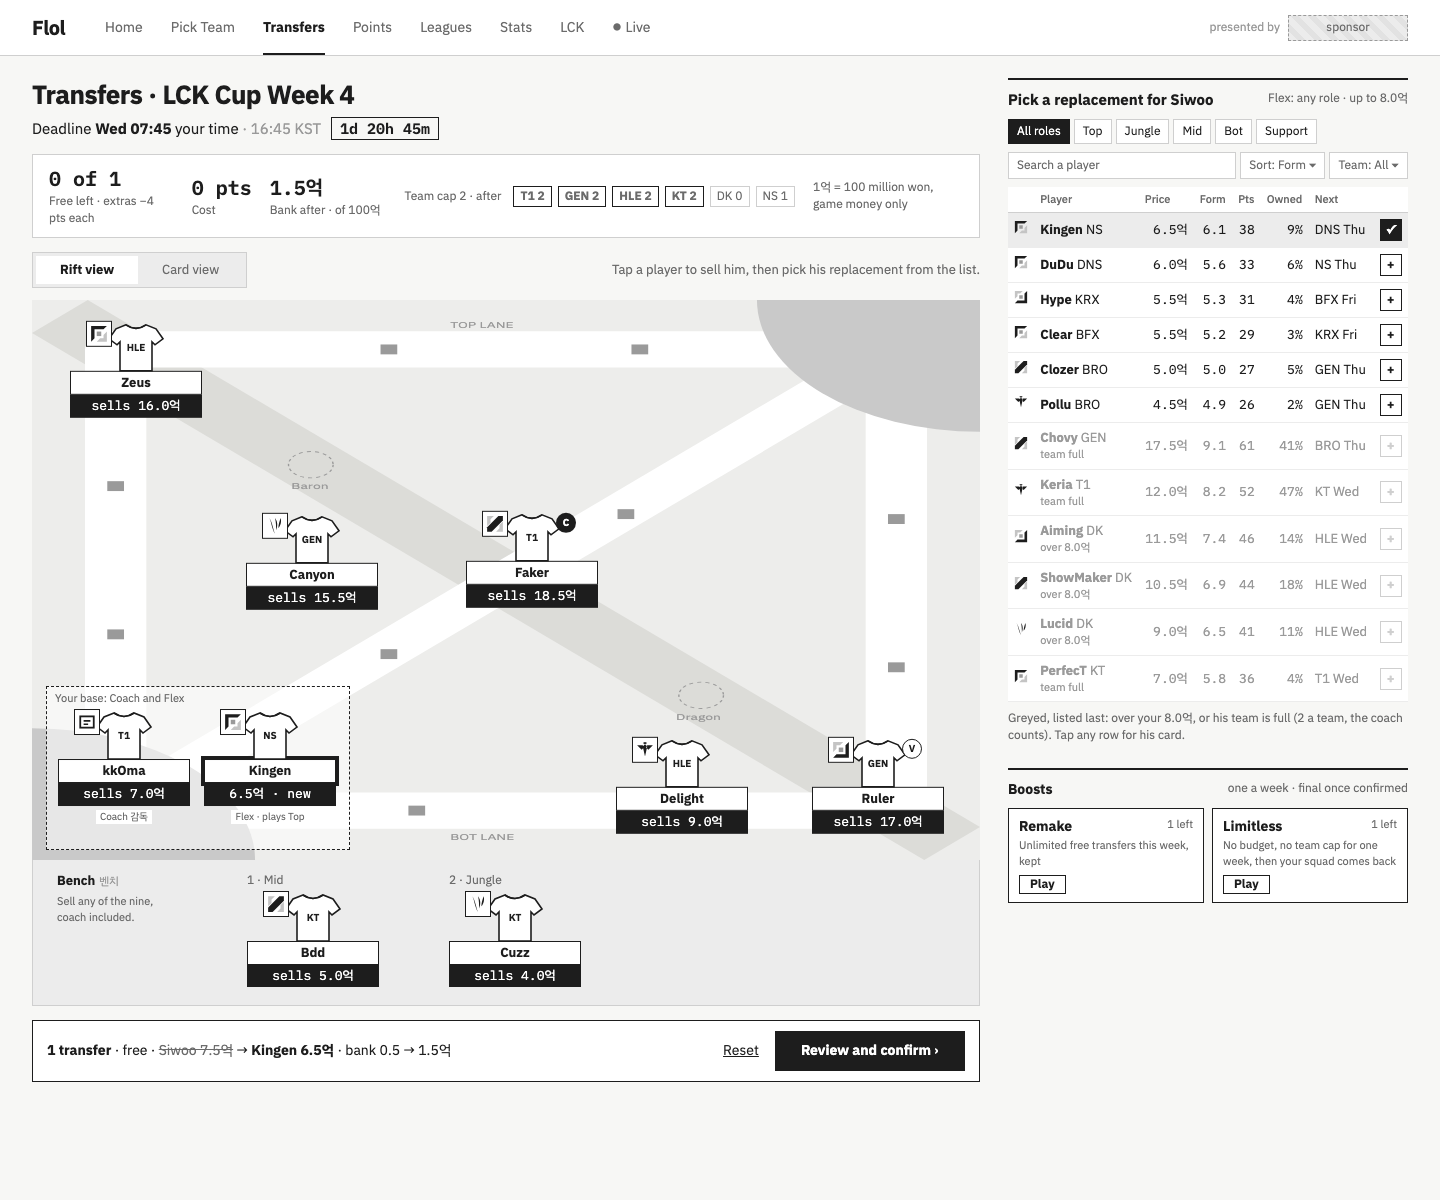
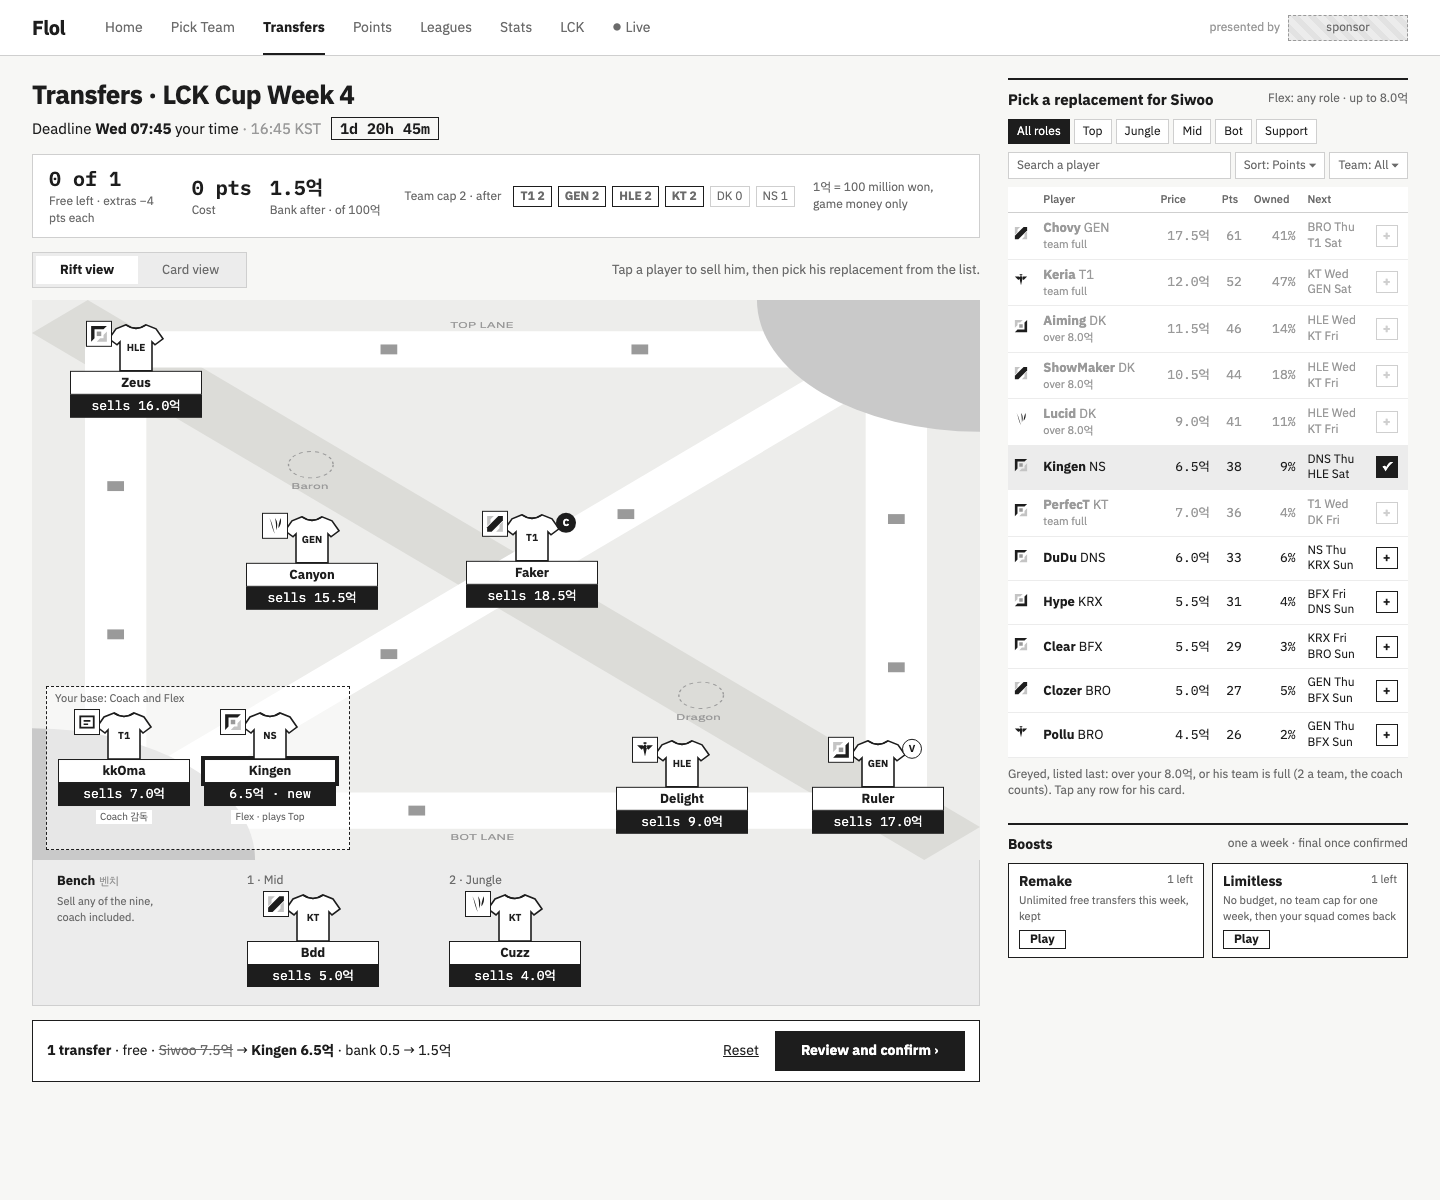
docs: Transfers list drops Form; Next shows both series of the week

Changed region(s): [[0.6875, 0.1233, 0.9688, 0.8017]]

diff --git a/docs/design/approved/transfers/transfers.html b/docs/design/approved/transfers/transfers.html
@@ -64,6 +64,7 @@ aside h2 span { font-weight: 400; color: var(--mid); font-size: 12px; }
 
 .rift { position: relative; width: 948px; height: 700px; }
 .rift svg.map { position: absolute; inset: 0; width: 948px; height: 700px; }
+.plist td.nx { font-size: 12px; line-height: 1.3; white-space: nowrap; }
 .tile { position: absolute; width: 132px; transform: translate(-50%, -50%); text-align: center; }
 .benchb .tile { position: relative; transform: none; }
 .tile .kit { position: relative; width: 56px; height: 50px; margin: 0 auto -2px; }
@@ -170,8 +171,8 @@ aside h2 span { font-weight: 400; color: var(--mid); font-size: 12px; }
 <aside>
 <section class="pl2"><h2>Pick a replacement for Siwoo <span>Flex: any role · up to 8.0억</span></h2>
 <div class="flt"><span class="on">All roles</span><span>Top</span><span>Jungle</span><span>Mid</span><span>Bot</span><span>Support</span></div>
-<div class="flt2"><span class="srch">Search a player</span><span>Sort: Form ▾</span><span>Team: All ▾</span></div>
-<table class="plist"><thead><tr><th></th><th>Player</th><th>Price</th><th>Form</th><th>Pts</th><th>Owned</th><th>Next</th><th></th></tr></thead><tbody id="pl"></tbody></table>
+<div class="flt2"><span class="srch">Search a player</span><span>Sort: Points ▾</span><span>Team: All ▾</span></div>
+<table class="plist"><thead><tr><th></th><th>Player</th><th>Price</th><th>Pts</th><th>Owned</th><th>Next</th><th></th></tr></thead><tbody id="pl"></tbody></table>
 <div class="note2">Greyed, listed last: over your 8.0억, or his team is full (2 a team, the coach counts). Tap any row for his card.</div></section>
 <section style="margin-top:22px"><h2>Boosts <span>one a week · final once confirmed</span></h2><div class="chips">
 <div class="chip"><span class="lft">1 left</span><b>Remake</b><small>Unlimited free transfers this week, kept</small><span class="go">Play</span></div>
@@ -189,15 +190,15 @@ const W4 = [
 ];
 const nextOf = (team) => W4.filter((s) => s[3] === team || s[4] === team).map((s) => `v ${s[3] === team ? s[4] : s[3]} ${s[0]}`);
 const PSQ = [
-  { slot: "top", name: "Zeus", team: "HLE", price: "16.0", form: "7.0" },
-  { slot: "jng", name: "Canyon", team: "GEN", price: "15.5", form: "7.3" },
-  { slot: "mid", name: "Faker", team: "T1", price: "18.5", form: "8.8", mark: "C" },
-  { slot: "bot", name: "Ruler", team: "GEN", price: "17.0", form: "8.0", mark: "V" },
-  { slot: "sup", name: "Delight", team: "HLE", price: "9.0", form: "5.0" },
-  { slot: "flex", role: "top", name: "Siwoo", team: "DK", price: "7.5", form: "4.5", news: "Benched for Wednesday's series" },
-  { slot: "coach", name: "kkOma", team: "T1", price: "7.0", form: "6.0" },
-  { slot: "b1", role: "mid", name: "Bdd", team: "KT", price: "5.0", form: "3.3" },
-  { slot: "b2", role: "jng", name: "Cuzz", team: "KT", price: "4.0", form: "4.8" },
+  { slot: "top", name: "Zeus", team: "HLE", price: "16.0" },
+  { slot: "jng", name: "Canyon", team: "GEN", price: "15.5" },
+  { slot: "mid", name: "Faker", team: "T1", price: "18.5", mark: "C" },
+  { slot: "bot", name: "Ruler", team: "GEN", price: "17.0", mark: "V" },
+  { slot: "sup", name: "Delight", team: "HLE", price: "9.0" },
+  { slot: "flex", role: "top", name: "Siwoo", team: "DK", price: "7.5", news: "Benched for Wednesday's series" },
+  { slot: "coach", name: "kkOma", team: "T1", price: "7.0" },
+  { slot: "b1", role: "mid", name: "Bdd", team: "KT", price: "5.0" },
+  { slot: "b2", role: "jng", name: "Cuzz", team: "KT", price: "4.0" },
 ];
 const ICON = { top: "i-top", jng: "i-jng", mid: "i-mid", bot: "i-bot", sup: "i-sup", coach: "i-coach", flex: "i-flex" };
 const SLOTNAME = { top: "Top", jng: "Jungle", mid: "Mid", bot: "Bot", sup: "Support", flex: "Flex", coach: "Coach", b1: "Bench 1", b2: "Bench 2" };
@@ -216,13 +217,13 @@ function tile(p) {
 PSQ.map((p) => p.name === "Siwoo" ? Object.assign({}, p, IN, { news: null, price: "6.5" }) : p).filter((p) => POS[p.slot]).forEach((p) => { const w = document.createElement("div"); w.innerHTML = tile(p); const t = w.firstElementChild; t.style.left = POS[p.slot][0] + "px"; t.style.top = POS[p.slot][1] + "px"; document.getElementById("rift").appendChild(t); });
 document.getElementById("bench").insertAdjacentHTML("beforeend", PSQ.filter((p) => /^b\d/.test(p.slot)).map((p, i) => `<div><div style="font-size:12px;color:var(--mid);margin-bottom:4px">${i + 1} · ${SLOTNAME[p.role]}</div>${tile(p)}</div>`).join(""));
 const PL = [
- ["mid","Chovy","GEN","17.5","9.1","61","41%","BRO Thu",1],["sup","Keria","T1","12.0","8.2","52","47%","KT Wed",1],["bot","Aiming","DK","11.5","7.4","46","14%","HLE Wed",2],
- ["mid","ShowMaker","DK","10.5","6.9","44","18%","HLE Wed",2],["jng","Lucid","DK","9.0","6.5","41","11%","HLE Wed",2],
- ["top","Kingen","NS","6.5","6.1","38","9%","DNS Thu",0],["top","PerfecT","KT","7.0","5.8","36","4%","T1 Wed",1],["top","DuDu","DNS","6.0","5.6","33","6%","NS Thu",0],
- ["bot","Hype","KRX","5.5","5.3","31","4%","BFX Fri",0],["top","Clear","BFX","5.5","5.2","29","3%","KRX Fri",0],["mid","Clozer","BRO","5.0","5.0","27","5%","GEN Thu",0],
- ["sup","Pollu","BRO","4.5","4.9","26","2%","GEN Thu",0]];
+ ["mid","Chovy","GEN","17.5","61","41%",1],["sup","Keria","T1","12.0","52","47%",1],["bot","Aiming","DK","11.5","46","14%",2],
+ ["mid","ShowMaker","DK","10.5","44","18%",2],["jng","Lucid","DK","9.0","41","11%",2],
+ ["top","Kingen","NS","6.5","38","9%",0],["top","PerfecT","KT","7.0","36","4%",1],["top","DuDu","DNS","6.0","33","6%",0],
+ ["bot","Hype","KRX","5.5","31","4%",0],["top","Clear","BFX","5.5","29","3%",0],["mid","Clozer","BRO","5.0","27","5%",0],
+ ["sup","Pollu","BRO","4.5","26","2%",0]];
 const WHY = ["", "team full", "over 8.0억"];
-document.getElementById("pl").innerHTML = [...PL].sort((a, b) => (a[8] > 0) - (b[8] > 0)).map((r) => `<tr class="${r[8] ? "no" : r[1] === "Kingen" ? "pick" : ""}"><td><svg><use href="#${ICON[r[0]]}"/></svg></td><td><b>${r[1]}</b> ${r[2]}${r[8] ? `<small>${WHY[r[8]]}</small>` : ""}</td><td class="n">${r[3]}억</td><td class="n">${r[4]}</td><td class="n">${r[5]}</td><td class="n">${r[6]}</td><td>${r[7]}</td><td><span class="add">${r[1] === "Kingen" ? "✓" : "+"}</span></td></tr>`).join("");
+document.getElementById("pl").innerHTML = [...PL].sort((a, b) => (a[8] > 0) - (b[8] > 0)).map((r) => `<tr class="${r[6] ? "no" : r[1] === "Kingen" ? "pick" : ""}"><td><svg><use href="#${ICON[r[0]]}"/></svg></td><td><b>${r[1]}</b> ${r[2]}${r[6] ? `<small>${WHY[r[6]]}</small>` : ""}</td><td class="n">${r[3]}억</td><td class="n">${r[4]}</td><td class="n">${r[5]}</td><td class="nx">${nextOf(r[2]).map((x) => x.slice(2)).join("<br>")}</td><td><span class="add">${r[1] === "Kingen" ? "✓" : "+"}</span></td></tr>`).join("");
 const MINE = new Set();
 void 0; // = W4.map((s) => `<div class="${MINE.has(s[3]) || MINE.has(s[4]) ? "mine" : ""}"><span class="d">${s[0]}</span><span><b class="${MINE.has(s[3]) ? "y" : ""}">${s[3]}</b> v <b class="${MINE.has(s[4]) ? "y" : ""}">${s[4]}</b></span><span class="t">${s[1]} <span style="color:var(--soft)">${s[2]} KST</span></span></div>`).join("");
 </script></body></html>

diff --git a/docs/design/approved/transfers/confirm.html b/docs/design/approved/transfers/confirm.html
@@ -64,6 +64,7 @@ aside h2 span { font-weight: 400; color: var(--mid); font-size: 12px; }
 
 .rift { position: relative; width: 948px; height: 700px; }
 .rift svg.map { position: absolute; inset: 0; width: 948px; height: 700px; }
+.plist td.nx { font-size: 12px; line-height: 1.3; white-space: nowrap; }
 .tile { position: absolute; width: 132px; transform: translate(-50%, -50%); text-align: center; }
 .benchb .tile { position: relative; transform: none; }
 .tile .kit { position: relative; width: 56px; height: 50px; margin: 0 auto -2px; }
@@ -176,8 +177,8 @@ aside h2 span { font-weight: 400; color: var(--mid); font-size: 12px; }
 <aside>
 <section class="pl2"><h2>Pick a replacement for Siwoo <span>Flex: any role · up to 8.0억</span></h2>
 <div class="flt"><span class="on">All roles</span><span>Top</span><span>Jungle</span><span>Mid</span><span>Bot</span><span>Support</span></div>
-<div class="flt2"><span class="srch">Search a player</span><span>Sort: Form ▾</span><span>Team: All ▾</span></div>
-<table class="plist"><thead><tr><th></th><th>Player</th><th>Price</th><th>Form</th><th>Pts</th><th>Owned</th><th>Next</th><th></th></tr></thead><tbody id="pl"></tbody></table>
+<div class="flt2"><span class="srch">Search a player</span><span>Sort: Points ▾</span><span>Team: All ▾</span></div>
+<table class="plist"><thead><tr><th></th><th>Player</th><th>Price</th><th>Pts</th><th>Owned</th><th>Next</th><th></th></tr></thead><tbody id="pl"></tbody></table>
 <div class="note2">Greyed: over your 8.0억, or his team is full (2 a team, the coach counts). Tap any row for his card.</div></section>
 <section style="margin-top:22px"><h2>Boosts <span>one a week · final once confirmed</span></h2><div class="chips">
 <div class="chip"><span class="lft">1 left</span><b>Remake</b><small>Unlimited free transfers this week, kept</small><span class="go">Play</span></div>
@@ -195,15 +196,15 @@ const W4 = [
 ];
 const nextOf = (team) => W4.filter((s) => s[3] === team || s[4] === team).map((s) => `v ${s[3] === team ? s[4] : s[3]} ${s[0]}`);
 const PSQ = [
-  { slot: "top", name: "Zeus", team: "HLE", price: "16.0", form: "7.0" },
-  { slot: "jng", name: "Canyon", team: "GEN", price: "15.5", form: "7.3" },
-  { slot: "mid", name: "Faker", team: "T1", price: "18.5", form: "8.8", mark: "C" },
-  { slot: "bot", name: "Ruler", team: "GEN", price: "17.0", form: "8.0", mark: "V" },
-  { slot: "sup", name: "Delight", team: "HLE", price: "9.0", form: "5.0" },
-  { slot: "flex", role: "top", name: "Siwoo", team: "DK", price: "7.5", form: "4.5", news: "Benched for Wednesday's series" },
-  { slot: "coach", name: "kkOma", team: "T1", price: "7.0", form: "6.0" },
-  { slot: "b1", role: "mid", name: "Bdd", team: "KT", price: "5.0", form: "3.3" },
-  { slot: "b2", role: "jng", name: "Cuzz", team: "KT", price: "4.0", form: "4.8" },
+  { slot: "top", name: "Zeus", team: "HLE", price: "16.0" },
+  { slot: "jng", name: "Canyon", team: "GEN", price: "15.5" },
+  { slot: "mid", name: "Faker", team: "T1", price: "18.5", mark: "C" },
+  { slot: "bot", name: "Ruler", team: "GEN", price: "17.0", mark: "V" },
+  { slot: "sup", name: "Delight", team: "HLE", price: "9.0" },
+  { slot: "flex", role: "top", name: "Siwoo", team: "DK", price: "7.5", news: "Benched for Wednesday's series" },
+  { slot: "coach", name: "kkOma", team: "T1", price: "7.0" },
+  { slot: "b1", role: "mid", name: "Bdd", team: "KT", price: "5.0" },
+  { slot: "b2", role: "jng", name: "Cuzz", team: "KT", price: "4.0" },
 ];
 const ICON = { top: "i-top", jng: "i-jng", mid: "i-mid", bot: "i-bot", sup: "i-sup", coach: "i-coach", flex: "i-flex" };
 const SLOTNAME = { top: "Top", jng: "Jungle", mid: "Mid", bot: "Bot", sup: "Support", flex: "Flex", coach: "Coach", b1: "Bench 1", b2: "Bench 2" };
@@ -222,13 +223,13 @@ function tile(p) {
 PSQ.map((p) => p.name === "Siwoo" ? Object.assign({}, p, IN, { news: null, price: "6.5" }) : p).filter((p) => POS[p.slot]).forEach((p) => { const w = document.createElement("div"); w.innerHTML = tile(p); const t = w.firstElementChild; t.style.left = POS[p.slot][0] + "px"; t.style.top = POS[p.slot][1] + "px"; document.getElementById("rift").appendChild(t); });
 document.getElementById("bench").insertAdjacentHTML("beforeend", PSQ.filter((p) => /^b\d/.test(p.slot)).map((p, i) => `<div><div style="font-size:12px;color:var(--mid);margin-bottom:4px">${i + 1} · ${SLOTNAME[p.role]}</div>${tile(p)}</div>`).join(""));
 const PL = [
- ["mid","Chovy","GEN","17.5","9.1","61","41%","BRO Thu",1],["sup","Keria","T1","12.0","8.2","52","47%","KT Wed",1],["bot","Aiming","DK","11.5","7.4","46","14%","HLE Wed",2],
- ["mid","ShowMaker","DK","10.5","6.9","44","18%","HLE Wed",2],["jng","Lucid","DK","9.0","6.5","41","11%","HLE Wed",2],
- ["top","Kingen","NS","6.5","6.1","38","9%","DNS Thu",0],["top","PerfecT","KT","7.0","5.8","36","4%","T1 Wed",1],["top","DuDu","DNS","6.0","5.6","33","6%","NS Thu",0],
- ["bot","Hype","KRX","5.5","5.3","31","4%","BFX Fri",0],["top","Clear","BFX","5.5","5.2","29","3%","KRX Fri",0],["mid","Clozer","BRO","5.0","5.0","27","5%","GEN Thu",0],
- ["sup","Pollu","BRO","4.5","4.9","26","2%","GEN Thu",0]];
+ ["mid","Chovy","GEN","17.5","61","41%",1],["sup","Keria","T1","12.0","52","47%",1],["bot","Aiming","DK","11.5","46","14%",2],
+ ["mid","ShowMaker","DK","10.5","44","18%",2],["jng","Lucid","DK","9.0","41","11%",2],
+ ["top","Kingen","NS","6.5","38","9%",0],["top","PerfecT","KT","7.0","36","4%",1],["top","DuDu","DNS","6.0","33","6%",0],
+ ["bot","Hype","KRX","5.5","31","4%",0],["top","Clear","BFX","5.5","29","3%",0],["mid","Clozer","BRO","5.0","27","5%",0],
+ ["sup","Pollu","BRO","4.5","26","2%",0]];
 const WHY = ["", "team full", "over 8.0억"];
-document.getElementById("pl").innerHTML = PL.map((r) => `<tr class="${r[8] ? "no" : r[1] === "Kingen" ? "pick" : ""}"><td><svg><use href="#${ICON[r[0]]}"/></svg></td><td><b>${r[1]}</b> ${r[2]}${r[8] ? `<small>${WHY[r[8]]}</small>` : ""}</td><td class="n">${r[3]}억</td><td class="n">${r[4]}</td><td class="n">${r[5]}</td><td class="n">${r[6]}</td><td>${r[7]}</td><td><span class="add">${r[1] === "Kingen" ? "✓" : "+"}</span></td></tr>`).join("");
+document.getElementById("pl").innerHTML = PL.map((r) => `<tr class="${r[6] ? "no" : r[1] === "Kingen" ? "pick" : ""}"><td><svg><use href="#${ICON[r[0]]}"/></svg></td><td><b>${r[1]}</b> ${r[2]}${r[6] ? `<small>${WHY[r[6]]}</small>` : ""}</td><td class="n">${r[3]}억</td><td class="n">${r[4]}</td><td class="n">${r[5]}</td><td class="nx">${nextOf(r[2]).map((x) => x.slice(2)).join("<br>")}</td><td><span class="add">${r[1] === "Kingen" ? "✓" : "+"}</span></td></tr>`).join("");
 const MINE = new Set();
 void 0; // = W4.map((s) => `<div class="${MINE.has(s[3]) || MINE.has(s[4]) ? "mine" : ""}"><span class="d">${s[0]}</span><span><b class="${MINE.has(s[3]) ? "y" : ""}">${s[3]}</b> v <b class="${MINE.has(s[4]) ? "y" : ""}">${s[4]}</b></span><span class="t">${s[1]} <span style="color:var(--soft)">${s[2]} KST</span></span></div>`).join("");
 </script><div class="veil"></div><div class="sheet2"><h3>Confirm your transfers</h3>
